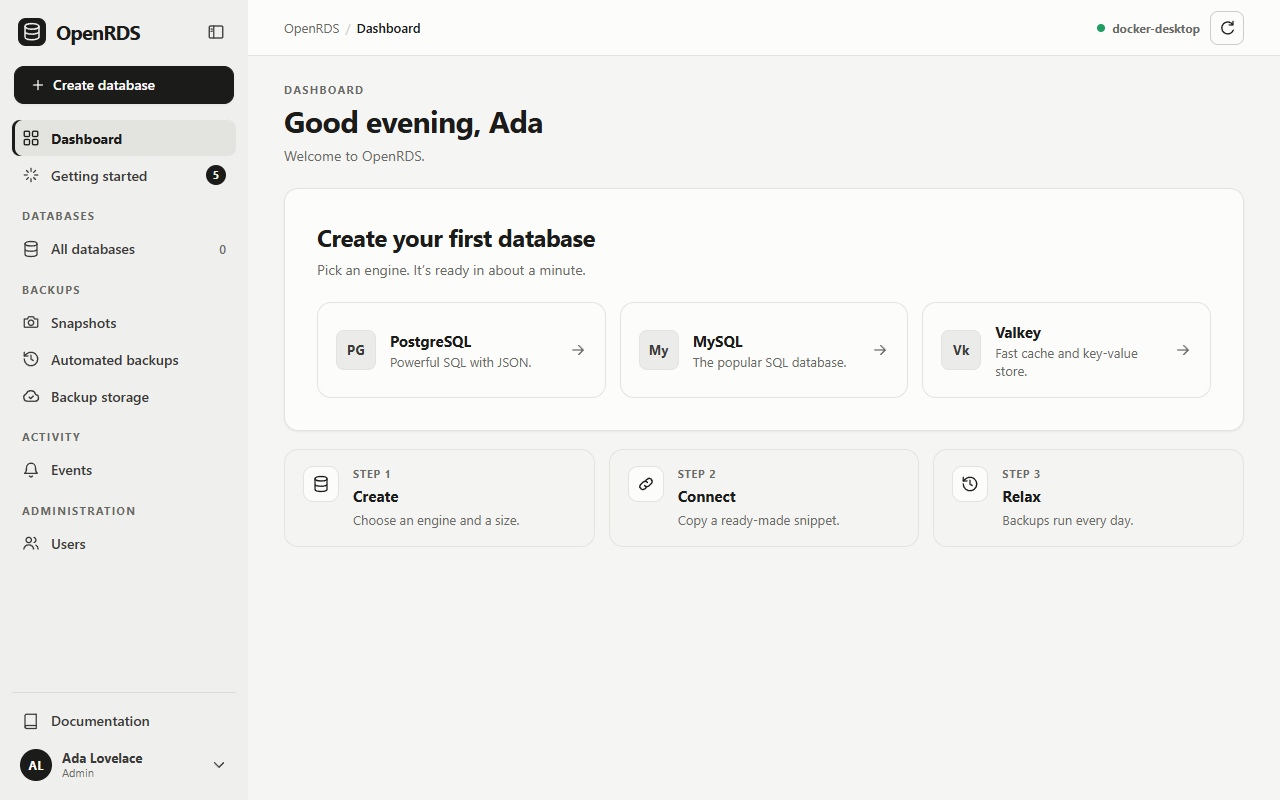
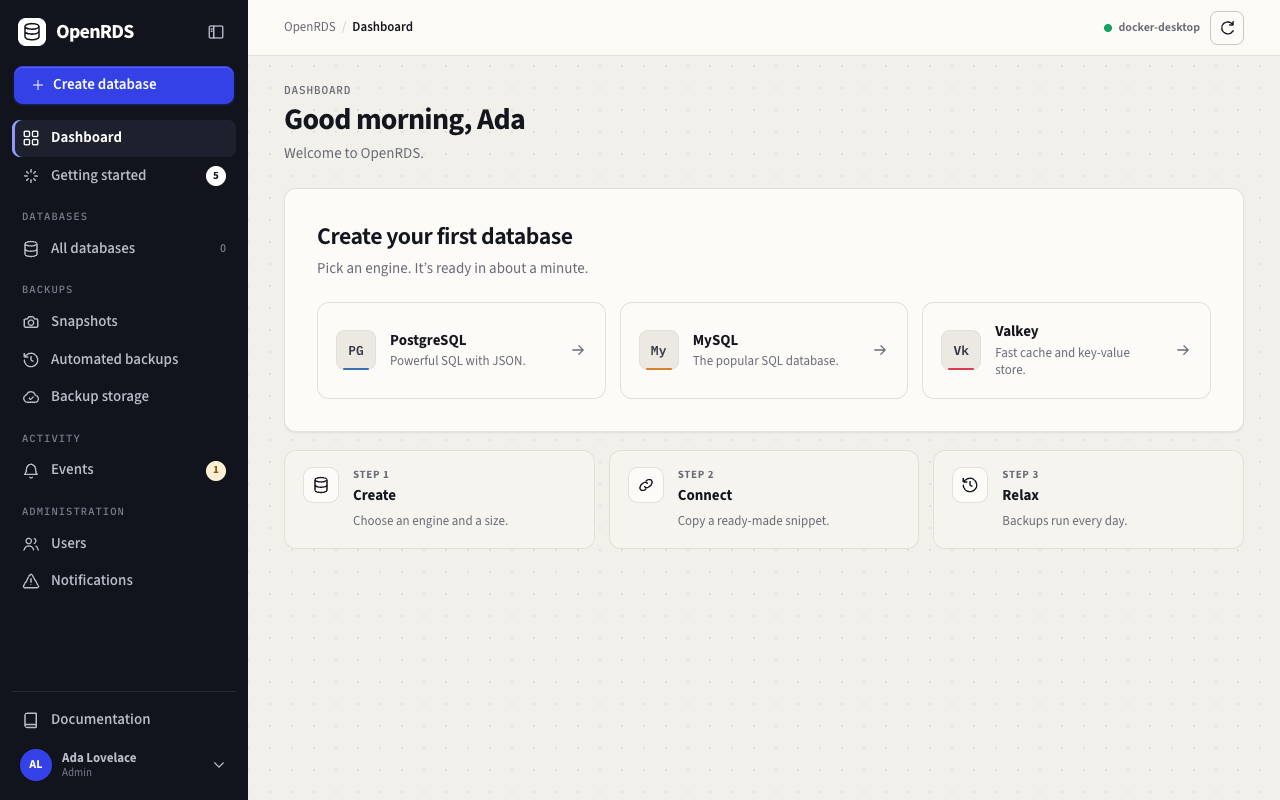
📝 docs: README and guides for the revamped console
- New screenshots of the current console from a sample install under load:
  the dashboard (with a dark-mode variant), the database list with its
  preview, a database's overview, monitoring, automated backups, public
  access and firewall, S3 storage, users, and the install guide's steps.
- README: a light and dark hero, a six-shot gallery, the console in the
  feature list, and how backups and replicas work.
- User and install guides use the new tab names: Overview, Connect, Users,
  Backups, Settings and Logs.

diff --git a/docs/guide.md b/docs/guide.md
@@ -7,12 +7,12 @@ How to create, secure, change, back up and monitor databases with OpenRDS. New t
 ## Create and connect
 
 1. Choose **Databases → Create database**. Pick PostgreSQL, MySQL or Valkey and an engine version (the stable one is selected; the latest is one click away), and a template: **Production** (daily backups kept 7 days, deletion protection, 2 vCPU · 4 GiB) or **Dev and test** (backups kept 1 day, 0.5 vCPU · 512 MiB). Then adjust the size, data volume limit, host port, backup window, engine parameters and tags. The summary shows how the CPU and memory limits add up against the host before you create anything.
-2. Open the database. Its **Connectivity & security** tab shows the connection string to copy, with the password hidden until you show or copy it, and a second one for the internet while public access is on. **Code examples and options** has ready snippets for Node.js, Python, Go, Prisma, Django, Laravel, Java and command-line clients, and lets you connect as another database user. Viewers see a placeholder instead of the password. From your computer, open an SSH tunnel to the port first: `ssh -N -L PORT:127.0.0.1:PORT you@your-server`.
+2. Open the database. Its **Overview** shows the last hour of CPU, memory, connections and throughput, where to connect, replicas, pooling, backups and recent events. The **Connect** tab (or the **Connect** button at the top) shows the connection string to copy, with the password hidden until you show or copy it, and a second one for the internet while public access is on. **Code examples and options** has ready snippets for Node.js, Python, Go, Prisma, Django, Laravel, Java and command-line clients, and lets you connect as another database user. Viewers see a placeholder instead of the password. From your computer, open an SSH tunnel to the port first: `ssh -N -L PORT:127.0.0.1:PORT you@your-server`.
 3. PostgreSQL and MySQL create the database `app` and user `openrds`. Valkey uses Redis database `0` and the `default` user; any Redis client can connect.
 
 Each instance gets a separate Compose project, network, volume, and random password. Stop/Start and Reboot preserve the volume, and the database keeps its [engine version](#engine-versions). Delete removes that instance’s volume; snapshots and automated backups have their own lifecycle.
 
-The initial PostgreSQL role administers its isolated cluster; the MySQL user has privileges on `app`. Give applications narrower users from the **Database users** tab (see below). Valkey stores an RDB snapshot and writes it again on a clean shutdown. If you set a memory limit, Valkey’s `maxmemory` is 75% of that limit and, unless you choose another `maxmemory-policy`, it refuses writes instead of evicting keys.
+The initial PostgreSQL role administers its isolated cluster; the MySQL user has privileges on `app`. Give applications narrower users from the **Users** tab (see below). Valkey stores an RDB snapshot and writes it again on a clean shutdown. If you set a memory limit, Valkey’s `maxmemory` is 75% of that limit and, unless you choose another `maxmemory-policy`, it refuses writes instead of evicting keys.
 
 ## Engine versions
 
@@ -22,7 +22,7 @@ The initial PostgreSQL role administers its isolated cluster; the MySQL user has
 | MySQL | 9.7 LTS (latest), 8.4 LTS (stable) | 8.4 |
 | Valkey | 9.2 (latest), 9.1 (stable), 9.0, 8.1, 8.0, 7.2 | 9.1 |
 
-A database keeps its engine version, so nothing upgrades by surprise. To move to a newer version, choose **Configuration → Engine version → Upgrade**, like RDS's *Modify engine version*. The database keeps its name, port, Docker network name, passwords, users, pooler, public access and settings, so applications need no change:
+A database keeps its engine version, so nothing upgrades by surprise. To move to a newer version, choose **Settings → Engine version → Upgrade**, like RDS's *Modify engine version*. The database keeps its name, port, Docker network name, passwords, users, pooler, public access and settings, so applications need no change:
 
 1. OpenRDS downloads the new version first, so that adds no downtime.
 2. It keeps clients out (PostgreSQL accepts only local connections, MySQL goes into offline mode, Valkey pauses writes) and takes a snapshot, noted *Before the upgrade to …*, which is kept.
@@ -35,7 +35,7 @@ Clients are disconnected for about as long as a snapshot and a restore of the da
 
 Every database starts private: its port is published on the VPS loopback interface only, so it is reachable from the VPS, from its Docker containers and through SSH tunnels, and nothing listens publicly.
 
-- **Database users.** The **Database users** tab lists the owner (`openrds`, or `default` for Valkey) and extra users. Create one per application with **Read and write** (change rows or keys, no schema or administrative commands) or **Read only** access. PostgreSQL users get the built-in `pg_read_all_data` and `pg_write_all_data` roles; MySQL users get `SELECT, SHOW VIEW` (plus `INSERT, UPDATE, DELETE`) on `app`; Valkey users get ACL rules that also block dangerous commands such as `FLUSHALL`, `KEYS` and `CONFIG`. Deleting a user ends its open sessions. Snapshots carry data, not users.
+- **Database users.** The **Users** tab lists the owner (`openrds`, or `default` for Valkey) and extra users. Create one per application with **Read and write** (change rows or keys, no schema or administrative commands) or **Read only** access. PostgreSQL users get the built-in `pg_read_all_data` and `pg_write_all_data` roles; MySQL users get `SELECT, SHOW VIEW` (plus `INSERT, UPDATE, DELETE`) on `app`; Valkey users get ACL rules that also block dangerous commands such as `FLUSHALL`, `KEYS` and `CONFIG`. Deleting a user ends its open sessions. Snapshots carry data, not users.
 - **Change passwords.** Change the owner's or a user's password at any time, generated (recommended) or your own (16–128 letters, digits and `. _ ~ -`). The old password stops working at once. Passwords travel to the engine on stdin, never on a command line; PostgreSQL receives only a SCRAM-SHA-256 verifier, and Valkey only SHA-256 digests. Every password reveal and change is recorded in **Events**.
 - **Encryption in transit.** Each installation has its own certificate authority, which signs a certificate for every database, valid for `localhost`, `127.0.0.1`, the container name and the public address. Download the CA certificate from the Connectivity tab and use `sslmode=verify-full` (PostgreSQL), `ssl-mode=VERIFY_IDENTITY` (MySQL) or `rediss://` (Valkey). TLS is always available for PostgreSQL and MySQL; **Require TLS** under Modify refuses plain-text connections. Valkey serves either TLS or plain text on a port, so requiring TLS switches it to TLS only.
 - **Public access and firewall.** Under **Network access**, turn on public access to open a second port on every interface, choose the sources allowed to connect (addresses or ranges such as `203.0.113.7` or `203.0.113.0/24`), and set the public address clients use. A small gateway container, built from the OpenRDS image, forwards only allowed sources; Docker publishes ports ahead of host firewalls such as `ufw`, so these rules are what protects the port. **Recent connection attempts** lists who tried, with one-click **Allow** for a blocked address. Rule changes apply at once. Turn on Require TLS before opening a database to the internet; the dashboard warns when a public database allows everyone or does not require TLS.
@@ -54,19 +54,19 @@ The pooler listens on its own loopback port (6432, or the next free port) and as
 
 ## Read replicas
 
-A **read replica** is a read-only copy of a database that follows its changes, usually within a second. Send reports, dashboards and other reads to replicas to take load off the source. Create one from **Connectivity & security → Read replicas** or **Actions → Create read replica**; a database can have up to 5.
+A **read replica** is a read-only copy of a database that follows its changes, usually within a second. Send reports, dashboards and other reads to replicas to take load off the source. Create one from **Overview → Read replicas** or **Actions → Create read replica**; a database can have up to 5.
 
 - A replica is a database of its own: its own port and Docker network name (`openrds-<replica>`), size, connection pooler, public access, backups and tags. It starts with its source's storage, parameters and TLS setting. It runs its source's engine version.
 - It has the **same users and passwords** as its source. Create users and change passwords on the source; they reach its replicas at once.
 - **PostgreSQL** copies the source with `pg_basebackup` and streams its WAL through a replication slot. The slot keeps WAL on the source while a replica is away, up to a quarter of the source's disk limit (16 GB without one); a replica that falls further behind stops and must be created again. A replica needs `max_connections` and `max_worker_processes` at least as high as its source's, so raise them on replicas first. **MySQL** loads a consistent dump of the source and applies its binary log from that point; the replica is read-only even for administrators. **Valkey** copies the data with its own replication, over TLS when the source requires it. Replication connections always use TLS for PostgreSQL and MySQL.
 - The source keeps running while a replica is created. Other changes to the source wait until its data is copied.
-- **Connectivity & security** shows each replica's state and lag, and **Monitoring** charts a PostgreSQL or MySQL replica's lag. Notifications report a replica that stops replicating, cannot reach its running source for 10 minutes, or falls 10 minutes behind, and when it recovers.
+- A replica's **Overview**, its source's **Read replicas** panel and the **Databases** list show each replica's state and lag, and **Monitoring** charts a PostgreSQL or MySQL replica's lag. Notifications report a replica that stops replicating, cannot reach its running source for 10 minutes, or falls 10 minutes behind, and when it recovers.
 - **Promote** makes a replica a standalone database that accepts writes, keeping its endpoint, data, users and settings. The source is not changed. To replicate again, create a new replica.
 - A database with replicas cannot be deleted or upgraded: promote or delete its replicas first. Point-in-time recovery stays on the source.
 
 ## Modify, reboot and protect
 
-For one change at a time, use the database's **Configuration** tab: each setting (instance size, host port, storage, automated backups, Require TLS, deletion protection and engine parameters) has its own **Change** button or switch, and changes that need a restart ask whether to apply now or at the next restart.
+For one change at a time, use the database's **Settings** tab: each setting (instance size, host port, storage, automated backups, Require TLS, deletion protection and engine parameters) has its own **Change** button or switch, and changes that need a restart ask whether to apply now or at the next restart.
 
 **Modify** changes the CPU and memory limits, host port, backup retention and window, engine parameters, deletion protection, Require TLS and tags. It ends with a summary of modifications showing each attribute’s current and new value:
 
@@ -96,17 +96,17 @@ For heavy workloads, PostgreSQL also offers autovacuum settings, `wal_compressio
 | MySQL | `innodb_buffer_pool_size` and `innodb_buffer_pool_instances` | 75% of the limit less 256 MiB for the server, in one instance per GiB up to 8, rounded down to whole 128 MiB chunks per instance so MySQL never rounds it up |
 | Valkey | `maxmemory` | 75% of the limit |
 
-A value you set yourself always wins; if you set `innodb_buffer_pool_size`, MySQL chooses its own instance count. Without a memory limit the engine defaults stay, because OpenRDS cannot know how much of the host a database may use. **Configuration** shows the sized values, and they change with the memory limit at the next restart.
+A value you set yourself always wins; if you set `innodb_buffer_pool_size`, MySQL chooses its own instance count. Without a memory limit the engine defaults stay, because OpenRDS cannot know how much of the host a database may use. **Settings** shows the sized values, and they change with the memory limit at the next restart.
 
-Parameters are passed on the command line from a generated Compose override, so they apply when the container starts. **Configuration** lists each one as applied or pending a restart. Valkey’s append-only persistence is not offered: when AOF is switched on through a restart, Valkey starts from an empty append-only file instead of its RDB snapshot. Restores keep the snapshot’s parameters unless you change them.
+Parameters are passed on the command line from a generated Compose override, so they apply when the container starts. **Settings** lists each one as applied or pending a restart. Valkey’s append-only persistence is not offered: when AOF is switched on through a restart, Valkey starts from an empty append-only file instead of its RDB snapshot. Restores keep the snapshot’s parameters unless you change them.
 
 ### Limit an instance’s disk usage
 
-Set **Data volume limit (GiB)** when creating or restoring an instance. For example, `20` (API: `"diskGiB": 20`) gives that database a fixed-size ext4 filesystem. Docker has no portable volume-size setting, so OpenRDS stores a sparse disk image in the `openrds_disk_images` volume, attaches it with a loop device, and mounts it through the normal local volume driver. Writes past the filesystem fail. Usable space is slightly less than the requested size because ext4 keeps its own metadata. The image is a ceiling, not reserved free space. Docker logs, image layers and OpenRDS backups are outside the cap. **Configuration → Measure usage** estimates allocated data-file space on demand.
+Set **Data volume limit (GiB)** when creating or restoring an instance. For example, `20` (API: `"diskGiB": 20`) gives that database a fixed-size ext4 filesystem. Docker has no portable volume-size setting, so OpenRDS stores a sparse disk image in the `openrds_disk_images` volume, attaches it with a loop device, and mounts it through the normal local volume driver. Writes past the filesystem fail. Usable space is slightly less than the requested size because ext4 keeps its own metadata. The image is a ceiling, not reserved free space. Docker logs, image layers and OpenRDS backups are outside the cap. **Settings → Storage → Measure usage** estimates allocated data-file space on demand.
 
 This needs rootful Docker on Linux, because attaching the image uses a short-lived privileged helper (`openrds-disk-helper`). The database container itself stays unprivileged. Each capped database uses one loop device until it is deleted. After a server or Docker restart, OpenRDS reattaches those devices when it starts. Docker may try a capped database before that and give up when its disk is missing; OpenRDS then starts it and records **Start database after Docker restart** in Events. Databases you stopped yourself stay stopped. Rootless Docker and daemons that cannot create loop devices show **Limits not enforceable here** and reject a capped request before creating an instance. Leave the field blank (API: `diskGiB: 0`) for a regular volume.
 
-Stop a capped database and choose **Configuration → Storage → Resize** to increase or decrease its limit. Growing extends the ext4 filesystem. Shrinking is refused when the data does not fit, and the previous size is kept. The database stays stopped until you start it again. A limit cannot be added to or removed from an existing volume in place: restore a backup into a new instance for that change. Restores inherit the source cap unless you override it; backups from before this feature default to uncapped.
+Stop a capped database and choose **Settings → Storage → Resize** to increase or decrease its limit. Growing extends the ext4 filesystem. Shrinking is refused when the data does not fit, and the previous size is kept. The database stays stopped until you start it again. A limit cannot be added to or removed from an existing volume in place: restore a backup into a new instance for that change. Restores inherit the source cap unless you override it; backups from before this feature default to uncapped.
 
 ## Backups and snapshots
 
@@ -123,11 +123,11 @@ Backups are stored **on the same VPS**, usually on the disk the databases use, a
 
 ### Point-in-time recovery (PostgreSQL)
 
-Like RDS, a PostgreSQL database can be restored to **any second** of its retention period, not only to its backups. Turn on **Configuration → Point-in-time recovery** (it needs automated backups, and applies with a restart). Then:
+Like RDS, a PostgreSQL database can be restored to **any second** of its retention period, not only to its backups. Turn on **Settings → Point-in-time recovery** (it needs automated backups, and applies with a restart). Then:
 
 - PostgreSQL archives every finished WAL segment, and at least once a minute when anything changed, to an archive volume of its own. OpenRDS collects the segments every minute into the backup library, gzip-compressed, and copies them to backup storage when it is connected. So a restore can miss at most about the last two minutes.
 - Automated backups become **physical base backups** (`pg_basebackup`), the starting points for replaying WAL. The first one is taken right after the restart. They also restore faster than logical dumps for large databases, into the same PostgreSQL version. Snapshots you take stay logical dumps, which restore into the same or a newer version.
-- **Maintenance & backups** shows the recovery window, from the end of the oldest base backup to the newest archived WAL, and **Restore to point in time** picks a second in it (in UTC). A **new** database is created from the newest base backup before that second, replays WAL up to it, and opens. The source keeps running. The new database gets the source's size, storage, parameters and TLS setting and its own owner password; database users from the source are turned off, so create them again.
+- **Backups** shows the recovery window, from the end of the oldest base backup to the newest archived WAL, and **Restore to point in time** picks a second in it (in UTC). A **new** database is created from the newest base backup before that second, replays WAL up to it, and opens. The source keeps running. The new database gets the source's size, storage, parameters and TLS setting and its own owner password; database users from the source are turned off, so create them again.
 - WAL older than the oldest base backup is removed, here and in backup storage, as backups expire. Turning point-in-time recovery off stops archiving; what was archived stays until the retention period ends. An engine upgrade starts a new window with a base backup of the new version, and keeps the old one for its retention period.
 - After losing the server, connect the same backup storage on a new one, **Import** a base backup, and restore it with a target time (API: `targetTime`): the WAL comes from storage.
 

diff --git a/README.md b/README.md
@@ -21,7 +21,10 @@ monitoring, TLS and an RDS-style console. No cloud bill.
 
 <br>
 
-![The OpenRDS dashboard: databases with live CPU and memory, recommendations and resources](docs/images/dashboard.png)
+<picture>
+  <source media="(prefers-color-scheme: dark)" srcset="docs/images/dashboard-dark.png">
+  <img src="docs/images/dashboard.png" alt="The OpenRDS dashboard: databases with live CPU and memory, what needs attention, resources and recent activity">
+</picture>
 
 ## Why OpenRDS?
 
@@ -36,6 +39,7 @@ Each database runs in its own container with its own volume, network and generat
 - **Connection pooling.** PgBouncer in front of PostgreSQL, like RDS Proxy, so hundreds of clients share a few server connections. Turn it on without restarting the database.
 - **Read replicas.** Read-only copies of PostgreSQL, MySQL and Valkey databases that follow their source within seconds, each with its own port and size. Send reads to them, watch their lag, and promote one to a standalone database.
 - **Secure by default.** Databases listen only on the server itself. Add read-only or read-write database users, change passwords, require TLS with a certificate authority per installation, and open a database to the internet only through an IP allowlist. Every password reveal is recorded.
+- **A console that answers at a glance.** The database list shows live load, copyable endpoints and replicas under their source, and previews any database beside the list with its last hour of CPU, memory and connections and quick actions. Each database opens on an overview of its health, how to connect, replication, backups and recent events.
 - **Easy to operate.** Monitoring charts with connections, throughput and cache hit ratio, Performance insights with the top statements and what runs now, logs and events, deletion protection, settings that apply now or at the next restart, and a dashboard that recommends what to fix. Snapshots and restores of large databases finish even if your browser disconnects, and backups never fill the disk your databases need.
 - **Made for teams.** Accounts with admin, operator and viewer roles, invitations, password resets and an audit trail.
 - **Alerts where you work.** Slack, Discord, Telegram, webhook or email messages when a database turns unhealthy, crashes or runs out of memory, an operation fails, or disk space runs low.
@@ -55,11 +59,15 @@ A database keeps its version until you upgrade it: **Upgrade** moves it to a new
 
 <table>
   <tr>
-    <td width="50%"><img src="docs/images/database.png" alt="A database page with its summary, connectivity and connection string"><p align="center"><b>Database details</b></p></td>
+    <td width="50%"><img src="docs/images/databases.png" alt="The database list with live load, nested read replicas and a preview of one database beside it"><p align="center"><b>Databases, with a preview</b></p></td>
+    <td width="50%"><img src="docs/images/database.png" alt="A database's overview: health for the last hour, connection details, read replicas, backups and recent events"><p align="center"><b>Database overview</b></p></td>
+  </tr>
+  <tr>
+    <td width="50%"><img src="docs/images/monitoring.png" alt="Monitoring charts for CPU, memory, network, disk, connections, throughput and cache hit ratio"><p align="center"><b>Monitoring</b></p></td>
     <td width="50%"><img src="docs/images/backups.png" alt="Automated backups with each database's schedule"><p align="center"><b>Automated backups</b></p></td>
   </tr>
   <tr>
-    <td width="50%"><img src="docs/images/network.png" alt="Network access with public access and an IP allowlist"><p align="center"><b>Public access and firewall</b></p></td>
+    <td width="50%"><img src="docs/images/network.png" alt="Connectivity and security with public access through an IP allowlist"><p align="center"><b>Public access and firewall</b></p></td>
     <td width="50%"><img src="docs/images/storage.png" alt="Backup storage connected to an S3-compatible bucket"><p align="center"><b>S3 backup storage</b></p></td>
   </tr>
 </table>
@@ -82,7 +90,7 @@ You need a Linux server with SSH access. The installer sets up Docker for you if
 
 3. **Create your account.** Visit **http://127.0.0.1:8080** and create the administrator account.
 4. **Create a database.** Pick PostgreSQL, MySQL or Valkey. It's ready in about a minute.
-5. **Connect.** Copy the connection string from **Connectivity & security** into your app.
+5. **Connect.** Choose **Connect** on the database and copy the connection string into your app.
 
 **New to servers?** Follow the **[step-by-step install guide with screenshots](docs/install.md)**. It also covers backups to S3, inviting your team, internet access and troubleshooting.
 
@@ -116,7 +124,8 @@ flowchart LR
 - **One control plane.** A single Go binary serves the console and the HTTP API, and drives Docker through the Docker CLI and Compose. Its state (accounts, database metadata, certificates, backups) lives in one Docker volume.
 - **Isolated databases.** Every database is its own Compose project, with its own network, data volume and random password. Ports are published on the server's loopback interface only.
 - **Opt-in internet access.** A small gateway container forwards connections from allowed addresses only, and logs every attempt.
-- **Backups off the server.** Backups are logical dumps stored on the server and, when you connect storage, copied to an S3-compatible bucket with signed requests.
+- **Backups off the server.** Backups are logical dumps, or for point-in-time recovery physical base backups with archived WAL, stored on the server and, when you connect storage, copied to an S3-compatible bucket with signed requests.
+- **Replicas next to their source.** A read replica is a database of its own that joins its source's private network, and streams or applies its changes there.
 
 ## Documentation
 

diff --git a/docs/install.md b/docs/install.md
@@ -88,7 +88,7 @@ Then click **Create database**. It's ready in about a minute; the first one take
 
 ## 6. Connect your application
 
-Open the database. **Connectivity & security** shows its connection string. Click **Copy**: it copies the full string, password included. Paste it into your app's settings, usually as `DATABASE_URL`.
+Open the database and choose **Connect**: the **Connect** tab shows its connection string. Click **Copy**: it copies the full string, password included. Paste it into your app's settings, usually as `DATABASE_URL`.
 
 ![The connection string for your app](images/connect.png)
 
@@ -100,7 +100,7 @@ Open the database. **Connectivity & security** shows its connection string. Clic
   ```
 
 - **Code examples and options** has snippets for Node.js, Python, Go, Prisma, Django, Laravel, Java and command-line tools.
-- **Database users:** to give each app its own login with only the access it needs, create users on the **Database users** tab.
+- **Database users:** to give each app its own login with only the access it needs, create users on the **Users** tab.
 
 ## 7. Protect your backups
 
@@ -134,8 +134,8 @@ Teammates open the link through their own SSH tunnel, like in step 3.
 
 By default, databases can't be reached from outside the server. If an app runs elsewhere, for example on a hosting platform, you can open one database to specific addresses:
 
-1. First turn on **Require TLS** on the database's **Configuration** tab, so traffic is encrypted.
-2. On **Connectivity & security**, click **Edit network**, turn on **Public access**, choose a port, and add the IP addresses allowed to connect.
+1. First turn on **Require TLS** on the database's **Settings** tab, so traffic is encrypted.
+2. On the **Connect** tab, under **Connectivity & security**, click **Edit network**, turn on **Public access**, choose a port, and add the IP addresses allowed to connect.
 3. If your provider has its own firewall, for example a cloud firewall or security group, allow that port there too.
 
 ![Network access with an allowlist](images/network.png)
@@ -174,7 +174,7 @@ cd ~/openrds && docker compose exec openrds openrds reset-password YOUR_USERNAME
 
 **The disk limit says "not enforceable here".** Disk limits need rootful Docker on Linux. Leave the field empty for a regular volume.
 
-**Something else went wrong.** Check the console's **Events** page, the database's **Logs & events** tab, or the server's log:
+**Something else went wrong.** Check the console's **Events** page, the database's **Logs** tab, or the server's log:
 
 ```sh
 cd ~/openrds && docker compose logs --tail 100 openrds
